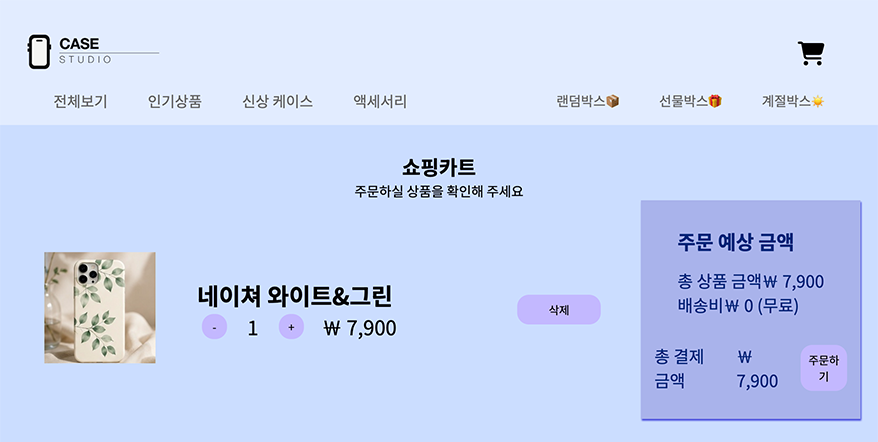
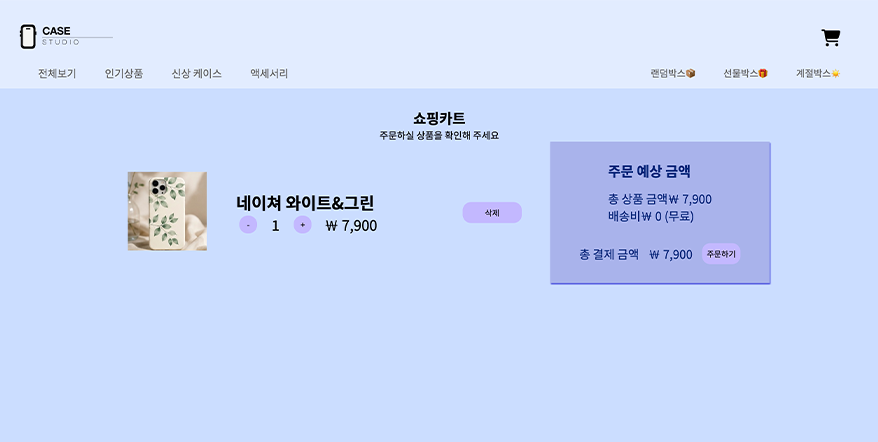
new

diff --git a/src/components/Personal.js b/src/components/Personal.js
@@ -4,7 +4,7 @@ import shopping from "../assets/img/Casestudio.jpg";
 import quiz1 from "../assets/img/quiz1.jpg"
 import quiz2 from "../assets/img/quiz2.jpg"
 import shop1 from "../assets/img/Casestudio1.jpg"
-import shop2 from "../assets/img/casestudio2.jpg"
+import shop2 from "../assets/img/Casestudio2.jpg"
 const slides = [
   { img: quiz, 
     title: "Quiz",